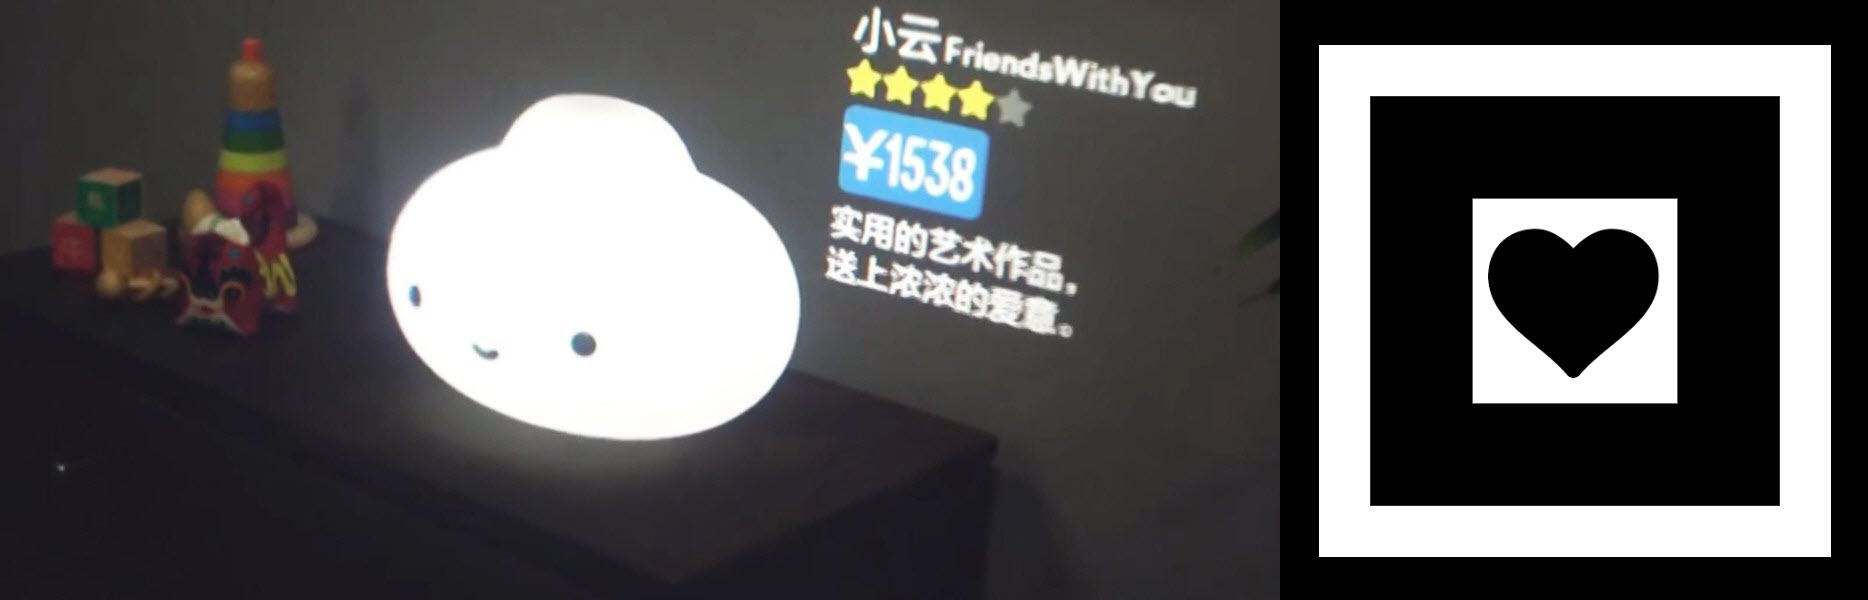
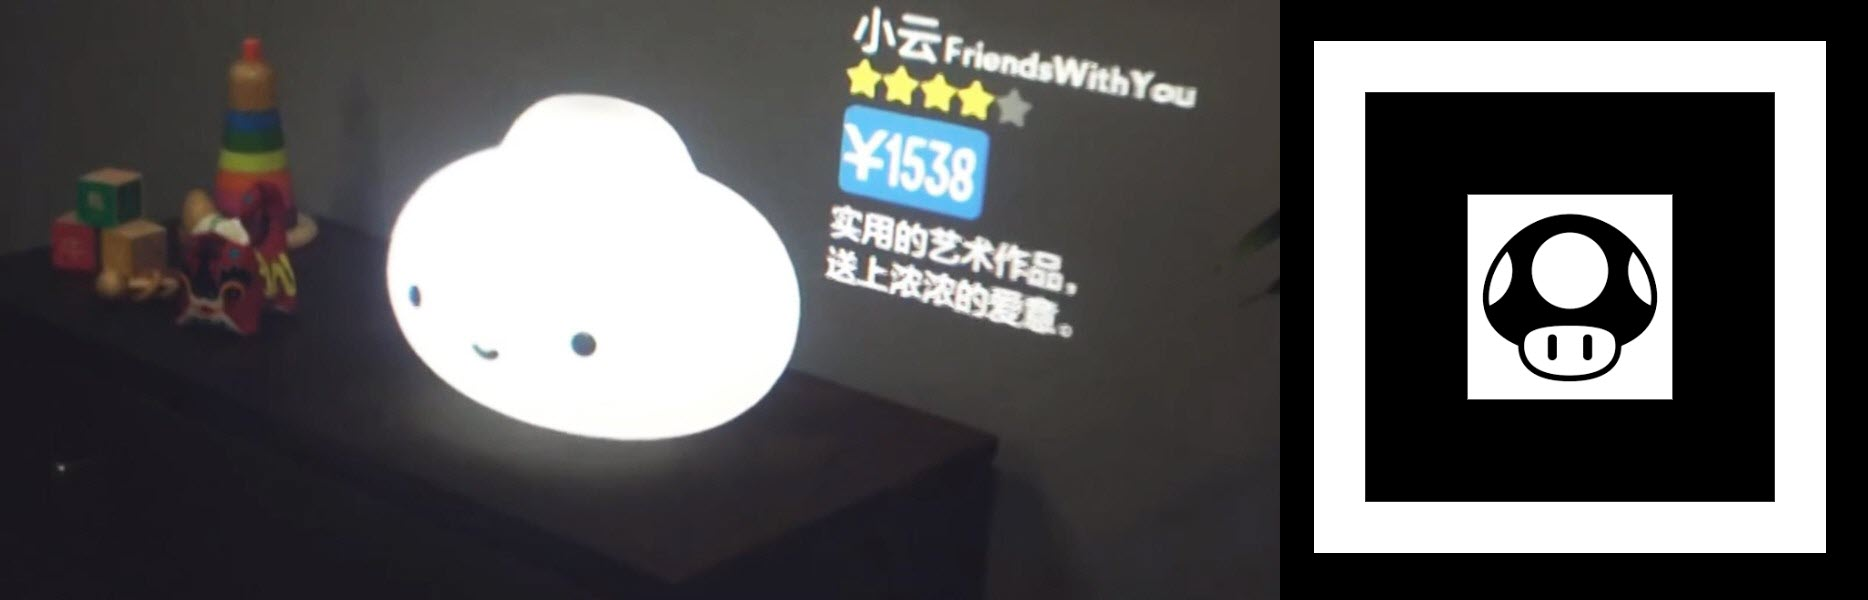
Marker Change

diff --git a/index.html b/index.html
@@ -57,7 +57,7 @@
             <a-video position="-1 0 0" rotation="0 180 180" width="3" src="#constr" autoplay="true"></a-video>
         </a-marker>
 
-        <a-marker type='pattern' url='marker/heart.patt' id="magicleap">
+        <a-marker type='pattern' url='marker/banner.patt' id="magicleap">
             <a-video position="-1 0 0" rotation="0 180 180" width="3" src="#magic" autoplay="true"></a-video>
         </a-marker>
 
